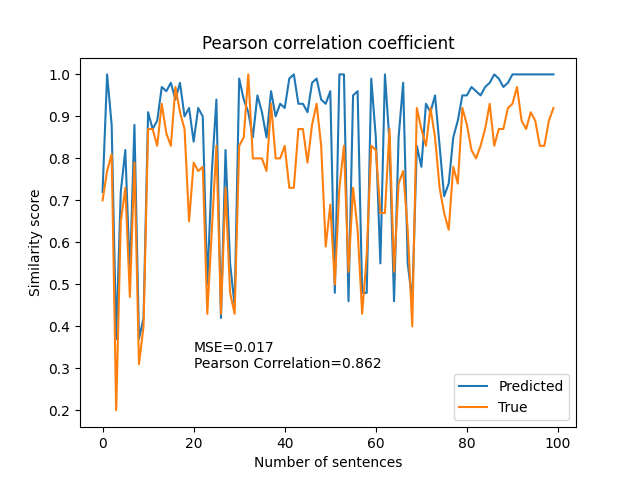
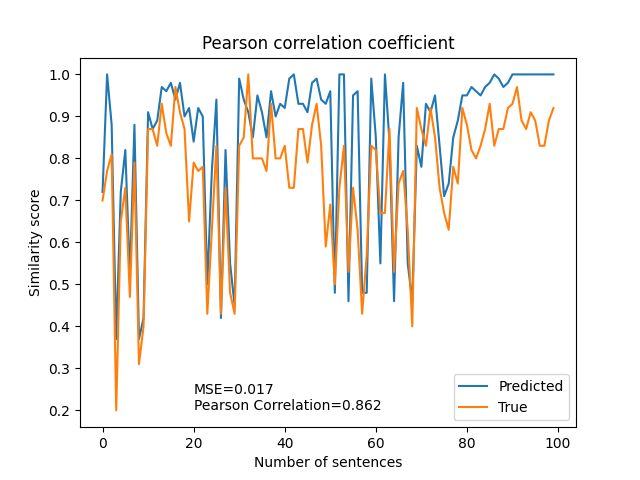
minor alignment fix on Pearson correlation coefficient graph

Changed region(s): [[0.2812, 0.6875, 0.5938, 0.875]]

diff --git a/Tamil-Sinhala-Short-sentence-similarity/predict_si_sentence.py b/Tamil-Sinhala-Short-sentence-similarity/predict_si_sentence.py
@@ -64,6 +64,6 @@ plt.title('Pearson correlation coefficient')
 plt.ylabel('Similarity score')
 plt.xlabel('Number of sentences')
 plt.legend(['Predicted', 'True'], loc='lower right')
-plt.text(20, 0.3, text_string)
+plt.text(20, 0.2, text_string)
 
 plt.savefig('images\\pearsonr-graph-sinhala.png')
